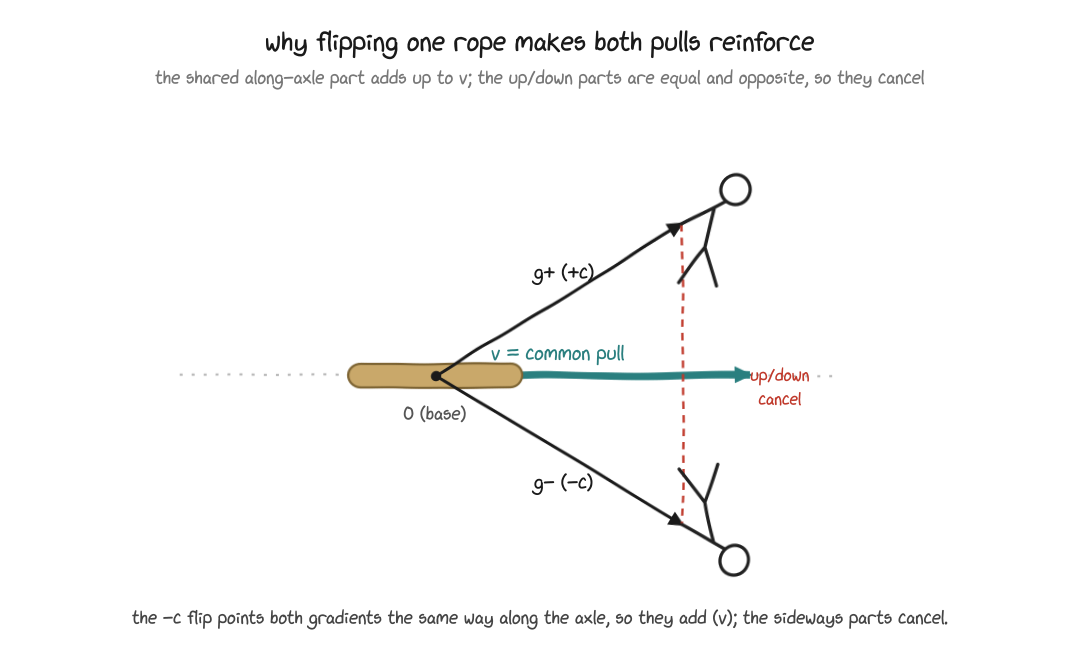
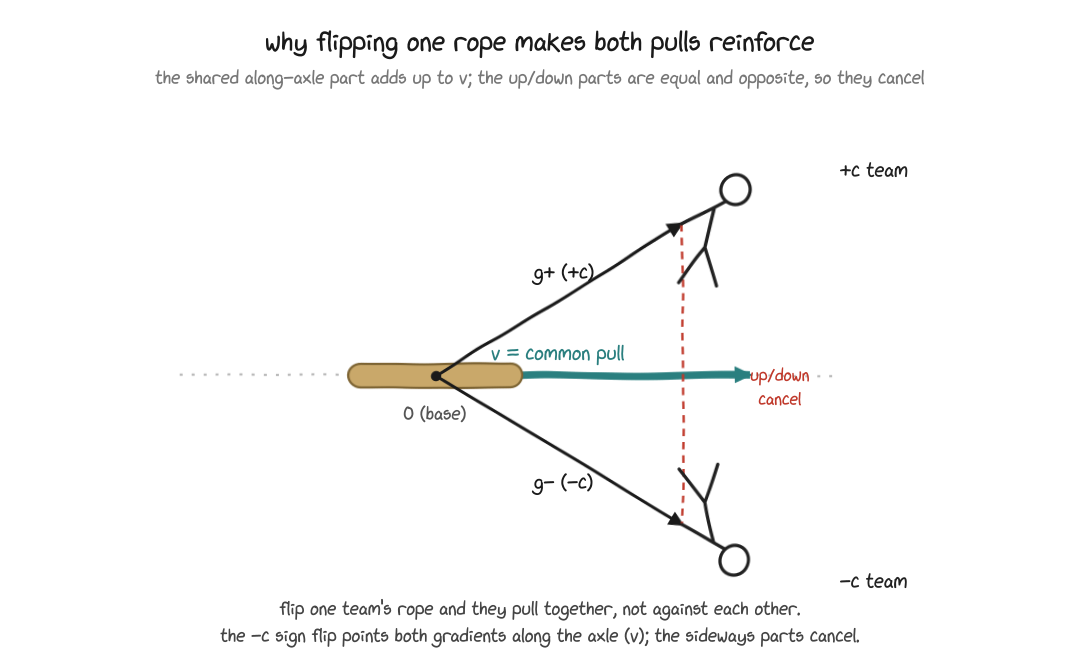
Use single geometry figure in README body (drop redundant cartoon); label +c/-c teams + flip-the-rope caption

Changed region(s): [[0.1222, 0.8788, 0.8861, 1.0], [0.7639, 0.2424, 0.8556, 0.2727]]

diff --git a/README.md b/README.md
@@ -39,12 +39,12 @@ The two poles share one axis. The same pairs are trained under both signs of `c`
 updates reinforce one direction instead of fighting. At inference the dial `c` slides
 the model along that line. See [`train.py`](src/cwsteer/train.py).
 
-![steering direction](docs/steering_direction.png)
+![steering direction](docs/steering_geometry.png)
 
-*One adapter is one direction: the `+c` (cho over rej) and `-c` (rej over cho) poles
-would pull against each other, but training the same pairs under both signs makes them
-pull the same way. The gradient geometry behind this is an advanced aside in the
-[appendix](#appendix-gradient-geometry).*
+*One adapter is one direction. The two poles' training gradients (`g+` at `+c`, `g-` at
+`-c`) pull one shared axle; the `-c` sign flip makes them reinforce along the axle (`v`)
+while the sideways parts cancel, so the same pairs trained under both signs learn one
+direction. A little more detail in the [appendix](#appendix-gradient-geometry).*
 
 ## What this variant changes
 
@@ -130,12 +130,10 @@ rather than cancel? Picture each pole's gradient as a rope pulling the shared di
 (the axle through the base model at `0`). The two pulls open at an angle. In this
 idealised picture their shared along-the-axle component adds up and moves the direction,
 while the perpendicular parts are roughly equal and opposite and cancel. The `-c` sign
-flip is what points both gradients the same way along the axle. In our runs the cosine
-between the two poles' gradients (the `cos` column logged by
+flip is what points both gradients the same way along the axle (the figure above). In
+our runs the cosine between the two poles' gradients (the `cos` column logged by
 [`train.py`](src/cwsteer/train.py)) started near 0.48 and fell toward 0 as the adapter
 grew.
-
-![gradient geometry](docs/steering_geometry.png)
 
 ## Sources
 